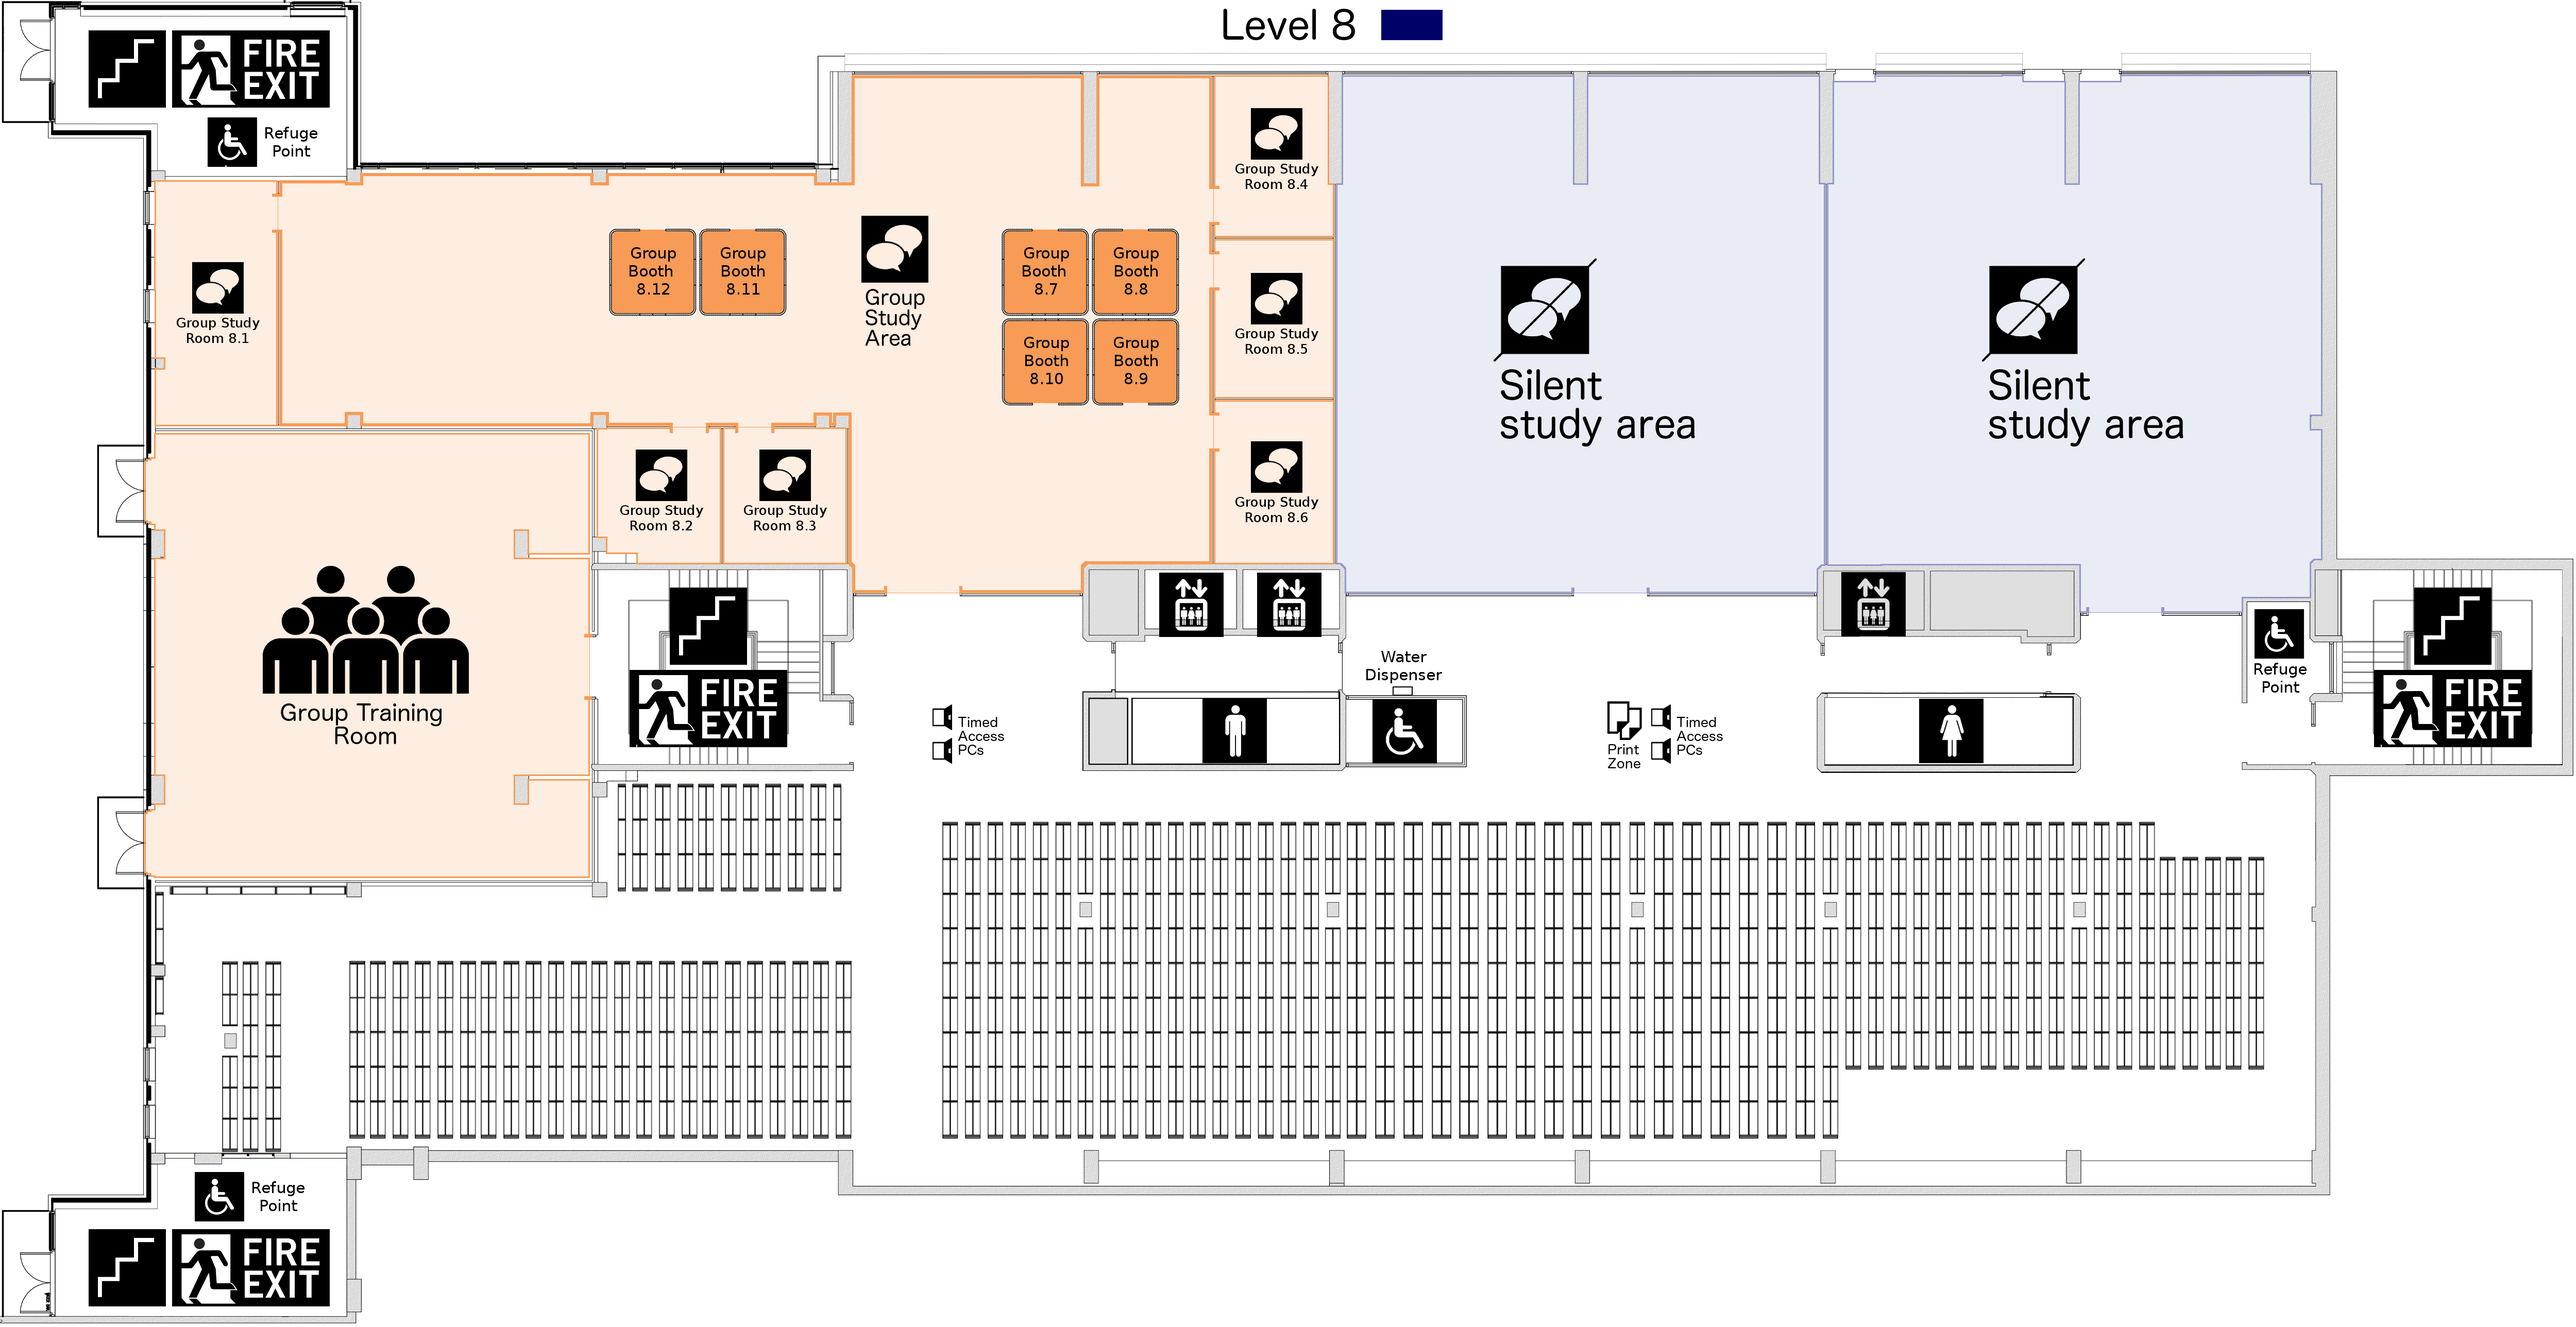
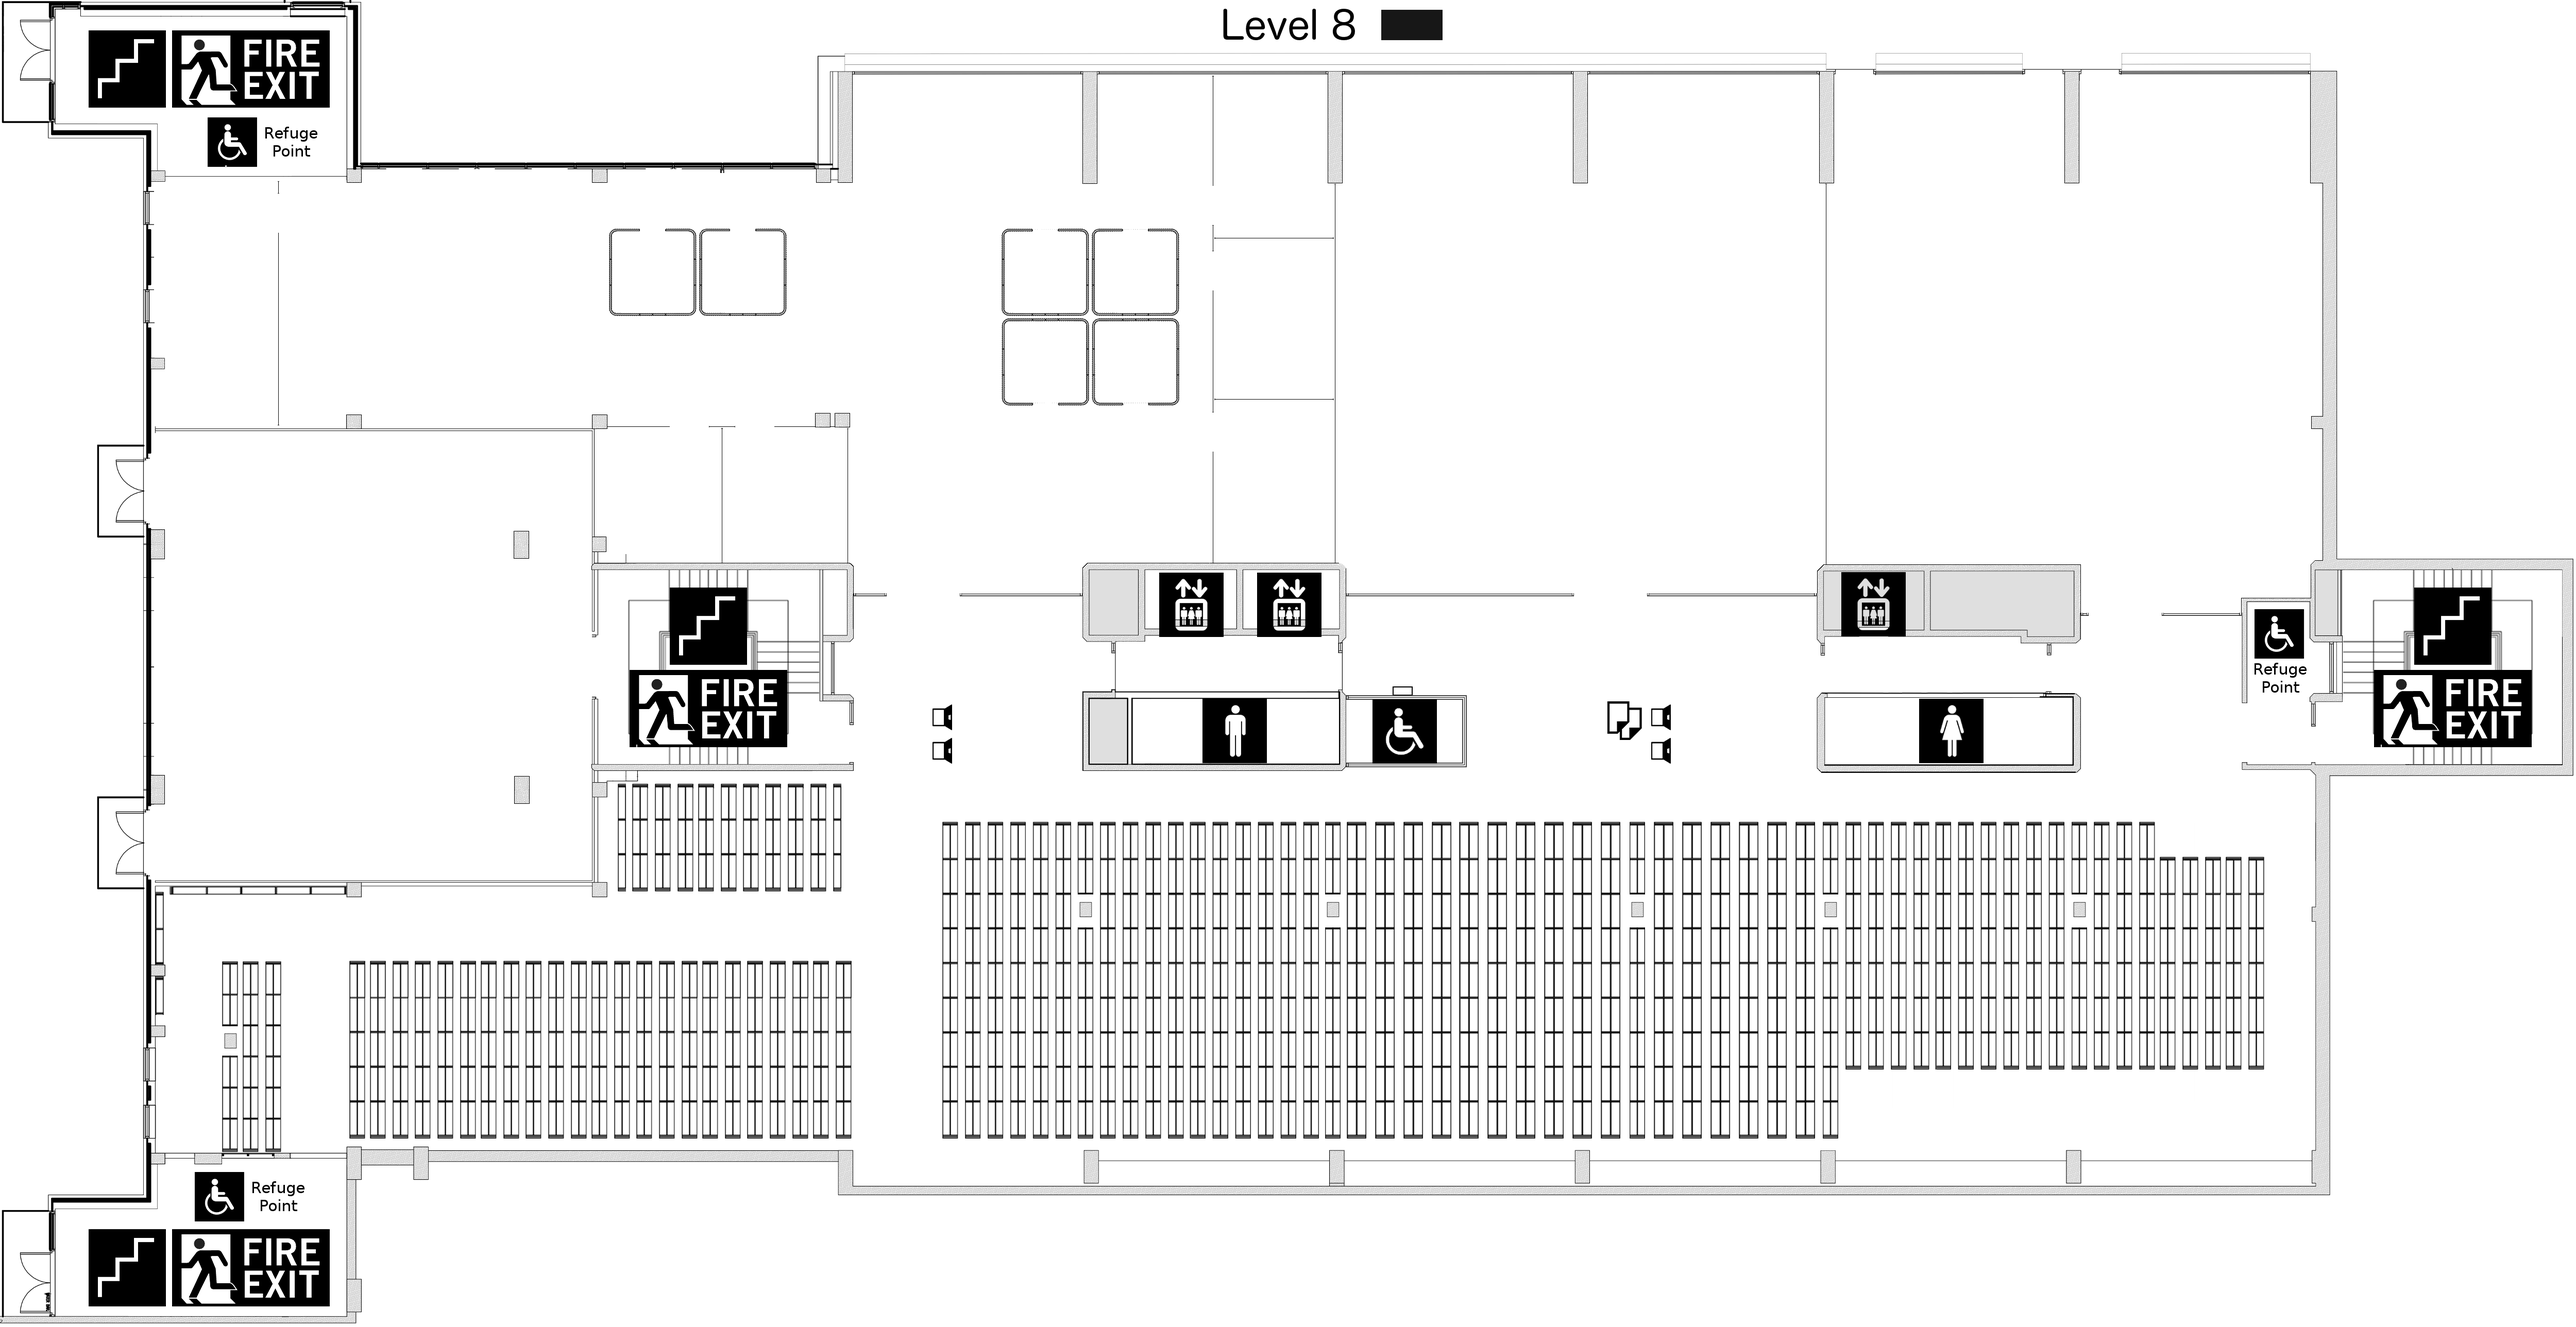
Removed text from image and added colours

diff --git a/_includes/javascript/core.js b/_includes/javascript/core.js
@@ -98,16 +98,16 @@ var addFloorLayer = function( floor ) {
                                 layer.bindPopup( feature.properties.name, { className: 'feature-tooltip' } );
                                 layer.on({
                                     mouseover: highlightFeature,
-                                    //mouseout: resetFeature,
+                                    mouseout: resetFeature,
                                     focus: highlightFeature,
-                                    //blur: resetFeature
+                                    blur: resetFeature
                                 });
                             },
                             /* style each feature and add appropriate className */
                             style: function( feature ) {
-                                let op = 0.5;
-                                if ( feature.properties.type == 'location' ) {
-                                    op = 0;
+                                let op = 0;
+                                if ( feature.properties.type !== 'area' ) {
+                                    op = 0.5;
                                 }
                                 return {
                                     weight: 0,
@@ -215,10 +215,8 @@ function selectShelf( floor, shelfName ) {
  */
 function highlightFeature( e ) {
     let layer = e.target;
-    if ( layer.id && layer.feature.properties.type == 'shelf' ) {
+    if ( layer.id ) {
         layer.setStyle({ fillOpacity: 0.75 } );
-    } else if ( layer.id && layer.feature.properties.type == 'location' ) {
-        layer.setStyle({ fillOpacity: 0.4 } );
     }
     if ( e.latlng ) {
         layer.openPopup(e.latlng);
@@ -233,10 +231,8 @@ function highlightFeature( e ) {
  */
 function resetFeature( e ) {
     let layer = e.target;
-    if ( layer.id && layer.feature.properties.type == 'shelf' ) {
+    if ( layer.id ) {
         layer.setStyle({ fillOpacity: 0.5 } );
-    } else if ( layer.id && layer.feature.properties.type == 'location' ) {
-        layer.setStyle({ fillOpacity: 0 } );
     }
     layer.closePopup();
 }

diff --git a/_sass/colours.scss b/_sass/colours.scss
@@ -101,32 +101,46 @@ $shelf-colors: '#ff3b8d' '#009e8c' '#ff426c' '#00999a' '#ff4647' '#0098a9' '#fd4
 		}
 	}
 }
-path.location {
-	fill: #aaa;
+path.group-study-location {
+	fill: rgb(255, 134, 28);
 }
+path.silent-study-location {
+	fill: rgb(28, 172, 255);
+}
+
 path.group-study {
-    fill: transparent;
+    fill: rgb(255, 134, 28);
+	fill-opacity: 0.2;
 	stroke: #ff861c;
 	stroke-width: 2;
 	stroke-opacity: 1;
 }
 ul.selecter__list li.group-study button {
 	&::before {
-		border: 3px solid #ff861c;
+		border: 3px solid rgb(255, 134, 28);
+		background: rgba(255, 134, 28, 0.2)
 	}
 	&:hover, &:focus {
+		&::before {
+			
+		}
 	}
 }
 path.silent-study {
-    fill: transparent;
+    fill: rgb(28, 172, 255);
+	fill-opacity: 0.2;
 	stroke: #1cacff;
 	stroke-width: 2;
 	stroke-opacity: 1;
 }
 ul.selecter__list li.silent-study button {
 	&::before {
-		border: 3px solid #1cacff
+		border: 3px solid rgb(28, 172, 255);
+		background: rgba(28, 172, 255, 0.2);
 	}
 	&:hover, &:focus {
+		&::before {
+			
+		}
 	}
 }
